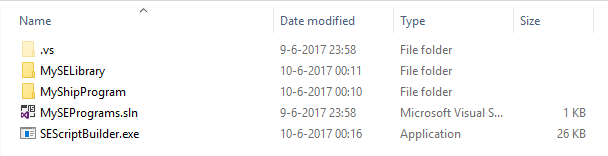
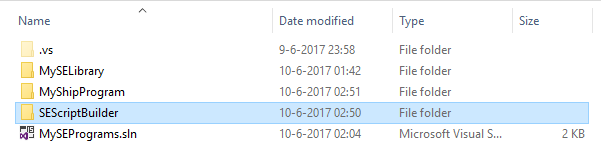
Updated docs

diff --git a/SEScriptBuilder/docs/SetupVS.md b/SEScriptBuilder/docs/SetupVS.md
@@ -24,9 +24,13 @@ Now make sure you add all the references as stated in the link above ([this one]
 You should now have two projects with the references to the games .dll files. Next we are going to set up the tool.
 
 ## Setting up the tool
-Download SEScriptBuilder.exe here. In this example we will download it to our solution folder:
+Download SEScriptBuilder.zip [here](https://github.com/Haarmees/SEVSTools/raw/master/SEScriptBuilder.zip). Unpack the zip file 
+on your computer. In this example we will put it in our solution folder.
 
 ![Builder placement](img/builderPlacement.PNG)
+
+Check the added folder and note that it contains a file called SEScriptBuilder.exe
+
 
 ### Creating external tools
 Now we are going to add the .exe file as an external tool, so we can run it on with Visual Studio.
@@ -444,7 +448,7 @@ Now you can start up Space Engineers to test the code. Start a new world in crea
 create a base with some batteries, a textpanel and a programable block.
 Group the batteries and name the group "MyBatteries". Rename the textpanel to "MyTextPanel".
 
- ![Control panel](img/controlPanel.PNG)
+![Control panel](img/controlPanel.PNG)
 
 Now copy the whole code from the Script.cs file to the programmable block. Click "check code"
 and make sure that it has no errors. Now run the programmable block and check the TextPanel.

diff --git a/Readme.md b/Readme.md
@@ -1,4 +1,9 @@
 # SEScriptbuilder
+
+[Download latest SESCriptBuilder.zip](https://github.com/Haarmees/SEVSTools/raw/master/SEScriptBuilder.zip)
+
+[Check out this guide on how to use the tool in VS](https://github.com/Haarmees/SEVSTools/blob/master/SEScriptBuilder/docs/SetupVS.md)
+## What it does
 SEScript builder is a tool to inject code in a main program file. It works with a 
 .csproj file which is also used by Visual Studio. It will check the project for a 
 file with a class that extends MyGridProgram. If found it will analyze this file 
